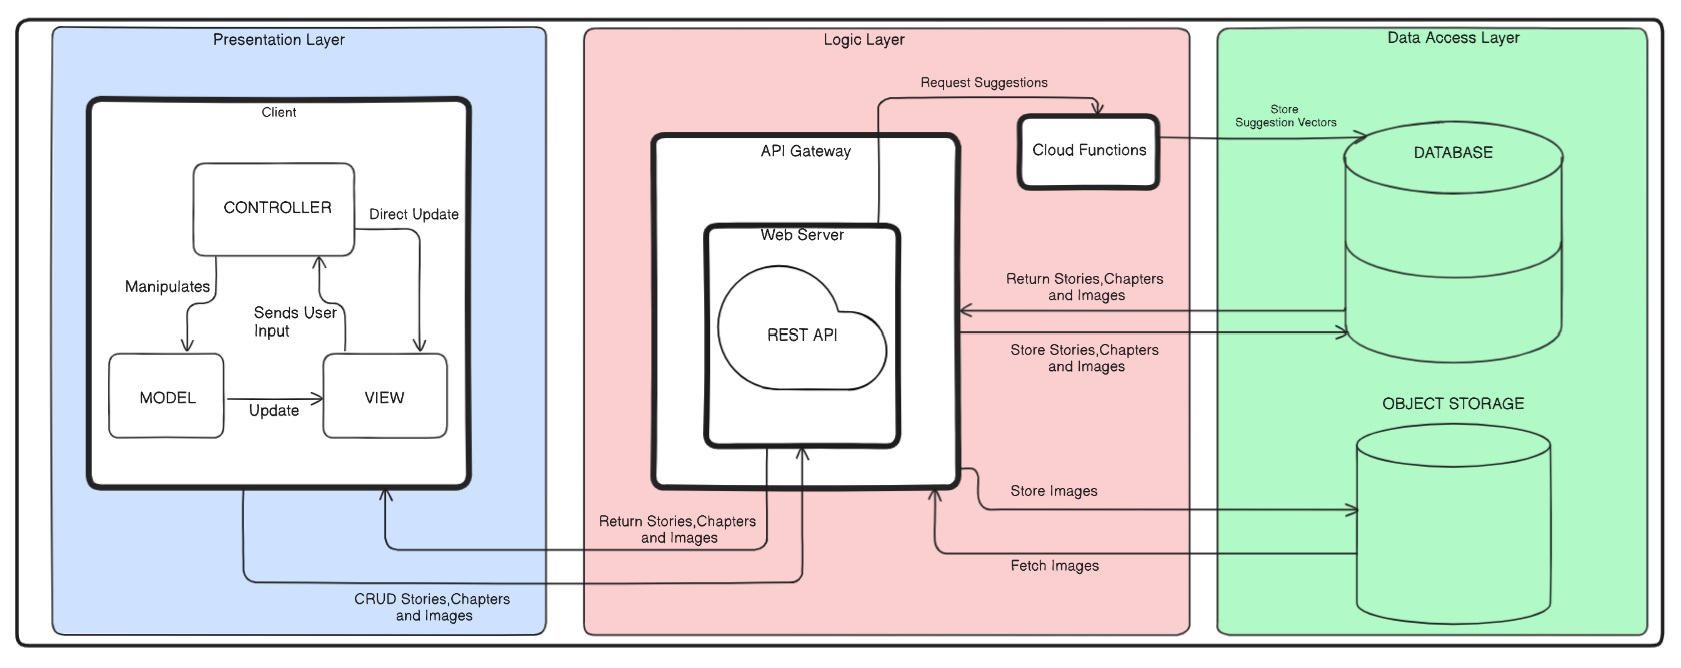
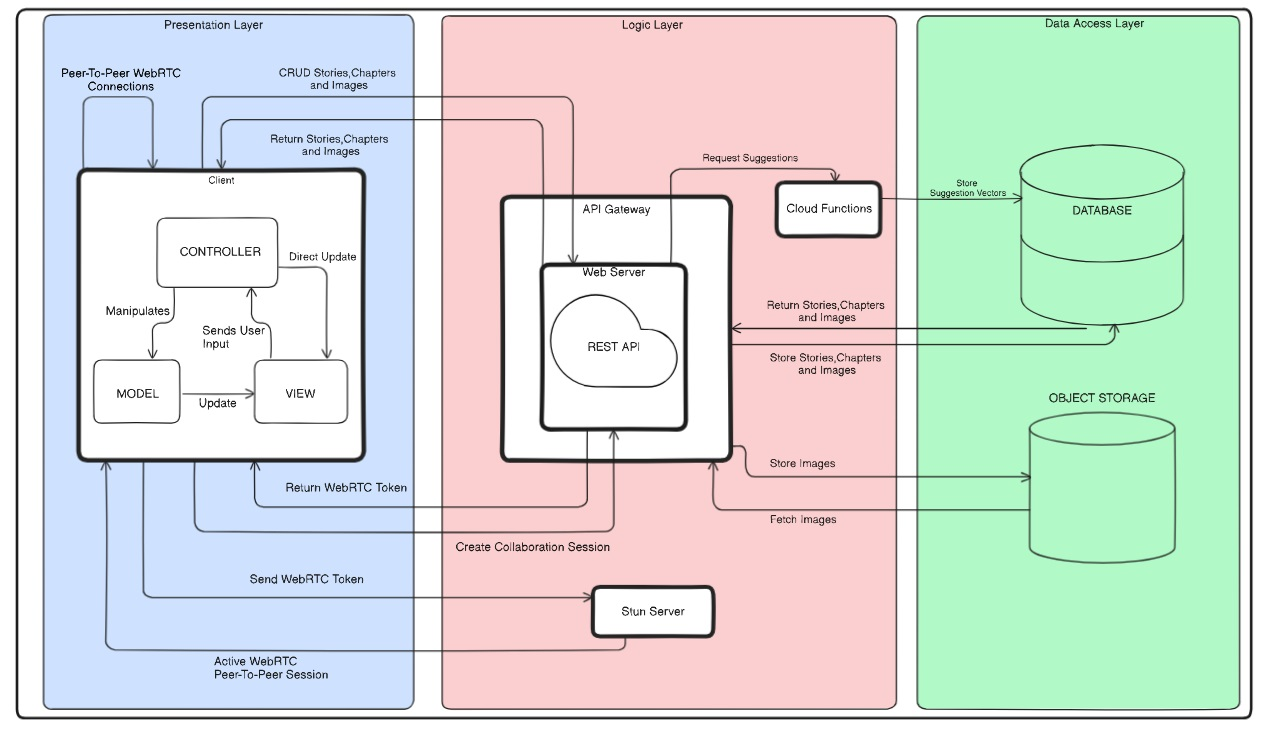
feat(docs): Updated the docs for the demo

diff --git a/apps/writeme-docs/docs/software-requirements-specification.md b/apps/writeme-docs/docs/software-requirements-specification.md
@@ -14,8 +14,6 @@ The rise of digital content consumption has created a demand for platforms that 
 
 ## Functional Requirements
 
-<strong> All points in bold are requirements that have been implemented already and points that are not bolded are what we plan to do next</strong>
-
 ### Authentication
 
 <ol className="srs-bullets">
@@ -42,12 +40,6 @@ The rise of digital content consumption has created a demand for platforms that 
       <li>Using their email and password
         <ol className="srs-bullets">
           <li><strong>The user credentials must be validated</strong></li>
-          <li>Must allow user to recover their password using their email or username
-            <ol className="srs-bullets">
-              <li><strong>The account must be verified (i.e. ensure it exists)</strong></li>
-              <li><strong>If the account is found, the system must allow the user to send a recovery email to the email address associated with the account</strong></li>
-            </ol>
-          </li>
         </ol>
       </li>
       <li>Using existing platforms
@@ -56,14 +48,14 @@ The rise of digital content consumption has created a demand for platforms that 
           <li><strong>Using Github</strong></li>
         </ol>
       </li>
-      <li>The user must be able to select “forgot password’
+    </ol>
+  </li>
+  <li>The user must be able to select “forgot password’
         <ol className="srs-bullets">
           <li><strong>The system must identify their account using their email address or username.</strong></li>
           <li><strong>If an account is found, a button appears that lets the user send a password reset email to the email address linked to their account</strong></li>
         </ol>
       </li>
-    </ol>
-  </li>
 </ol>
 
 ### Authorization
@@ -72,10 +64,12 @@ The rise of digital content consumption has created a demand for platforms that 
   <li>The system must provide functionality that is specific to users that are singed up:
     <ol className="srs-bullets">
       <li><strong>Access to account management</strong></li>
-      <li><strong>Access to reading other stories</strong></li>
-      <li><strong>Access to writing stories</strong></li>
+      <li><strong>Access to the explore page(To read other stories)</strong></li>
+      <li><strong>Access to the editor(To write stories)</strong></li>
       <li><strong>Access to the recommendation system. The access is implicit (i.e. the user doesn't directly interact with the system)</strong></li>
       <li><strong>Access to the social interaction system</strong></li>
+      <li><strong>Access to Writeathons</strong></li>
+      <li><strong>Access to real time collaboration as a guest or host</strong></li>
     </ol>
   </li>
 </ol>
@@ -88,14 +82,13 @@ The rise of digital content consumption has created a demand for platforms that 
       <li><strong>Users must be able to publish their story</strong></li>
       <li><strong>Users must be able to save their story to a draft</strong></li>
       <li><strong>Users must be able to edit their stories</strong></li>
-      <li><strong>Genre selection</strong></li>
+      <li><strong>Users must be able to give their stories Genre Tags</strong></li>
     </ol>
   </li>
   <li>Metadata:
     <ol className='srs-bullets'>
       <li><strong>Users must be able to add a title to their story</strong></li>
-      <li><strong>Editor for users to write the main content of their story</strong></li>
-      <li><strong>Able to select a cover image</strong></li>
+      <li><strong>Users must be able to select a cover image</strong></li>
     </ol>
   </li>
 </ol>
@@ -106,21 +99,22 @@ The rise of digital content consumption has created a demand for platforms that 
   <li>Users must be able to view other stories:
     <ol className='srs-bullets'>
       <li><strong>Stories can be displayed as thumbnails with the cover image, title and author</strong></li>
-      <li>Stories can be displayed as lists with more detailed information such as a short description, genre or publication date</li>
+      <li><strong>Stories can be displayed as lists with more detailed information such as a short description, genre or publication date</strong></li>
     </ol>
   </li>
   <li>Story filters
     <ol className='srs-bullets'>
-      <li>Allow users to filter stories by genre</li>
-      <li>Allow users to filter stories by popularity</li>
-      <li>Allow users to filter stories by most recently published</li>
+      <li><strong>Allow users to filter stories by date published</strong></li>
+      <li><strong>Allow users to filter stories by genre</strong></li>
+      <li><strong>Allow users to filter stories by most recently published</strong></li>
+      <li><strong>Allow users to see filtered stories in ascending or descending order</strong></li>
     </ol>
   </li>
   <li>Search functionality
     <ol className='srs-bullets'>
       <li><strong>Allow users to search stories by title</strong></li>
-      <li>Allow users to search stories by author</li>
-      <li>>Allow users to search stories with keywords</li>
+      <li><strong>Allow users to search stories by author</strong></li>
+      <li><strong>Allow users to search stories with keywords</strong></li>
     </ol>
   </li>
 </ol>
@@ -134,6 +128,7 @@ The rise of digital content consumption has created a demand for platforms that 
         <ol className='srs-bullets'>
           <li><strong>Users can comment on Entire Stories</strong></li>
           <li><strong>Users can comment on Chapters</strong></li>
+          <li><strong>Users can reply to other users comments</strong></li>
         </ol>
       </li>
       <li>Users can like differnet sections
@@ -157,7 +152,7 @@ The rise of digital content consumption has created a demand for platforms that 
         <li><strong>Users can share on Facebook</strong></li>
      </ol>
     </li>
-    <li><strong>Users can export stories to PDF</strong></li>
+    <li>Users can export stories to PDF</li>
 </ol>
 
 ### Account Management
@@ -177,7 +172,7 @@ The rise of digital content consumption has created a demand for platforms that 
             <li><strong>Users should be able to update name</strong></li>
           </ol>
         </li>
-        <li><strong>Users should be able to delete their account</strong></li>
+        <li>Users should be able to delete their account</li>
       </ol>
     </li>
 
@@ -188,8 +183,8 @@ The rise of digital content consumption has created a demand for platforms that 
 <ol className="srs-bullets">
   <li>Users can edit content while offline:
       <ol className='srs-bullets'>
-        <li>Users can edit entire stories while offline</li>
-        <li>Users can edit specific chapters while offline</li>
+        <li><strong>Users can edit entire stories while offline</strong></li>
+        <li><strong>Users can edit specific chapters while offline</strong></li>
      </ol>
   </li>
   <li>Users can export content to a PDF:
@@ -258,8 +253,8 @@ The rise of digital content consumption has created a demand for platforms that 
       <li><strong>Users can use the assistant to generate story progression ideas</strong></li>
     </ol>
   </li>
-  <li><strong>Users can use the AI assistant for parts of speech detection</strong></li>
-  <li><strong>Users can use the AI assistant for tone detection</strong></li>
+  <li>Users can use the AI assistant for parts of speech detection</li>
+  <li>Users can use the AI assistant for tone detection</li>
 </ol>
 
 ### Notepad
@@ -274,6 +269,37 @@ The rise of digital content consumption has created a demand for platforms that 
         <li><strong>Users can load previously saved notepad content from local storage</strong></li>
      </ol>
   </li>  
+</ol>
+
+### Real Time Collaboration
+
+<ol className="srs-bullets">
+
+  <li>Users can Collaborate with other WriteMe users in Real-Time
+      <ol className='srs-bullets'>
+        <li><strong>Users can host a collaboration session</strong></li>
+        <li><strong>Users can join another users collaboration session</strong></li>
+        <li><strong>Users can make collaboration sessions Read-Only</strong></li>
+        <li><strong>Users can make collaboration sessions Read and Write sessions to give guests full access to the story</strong></li>
+        <li><strong>Users can work on the same story at the same time with their collaboration guest</strong></li>
+     </ol>
+  </li>
+
+  <li>Users can use the Whiteboard while collaborating with others
+      <ol className='srs-bullets'>
+        <li><strong>Users can collaborate on the same whiteboard in Real-Time</strong></li>
+        <li><strong>Users can draw pictures or diagrams to brainstorm ideas</strong></li>
+        <li><strong>Users can type and add text to the whiteboard</strong></li>
+     </ol>
+  </li>
+
+  <li>Users can use the conferencing feature while collaborating with others
+      <ol className='srs-bullets'>
+        <li><strong>Users can see real time video of collaborators</strong></li>
+        <li><strong>Users can hear real time audio of collaborators</strong></li>
+     </ol>
+  </li> 
+
 </ol>
 
 ## Architectural Requirements
@@ -483,7 +509,7 @@ The system requires the use of AWS, therefore implementing budget constraints wi
 
 By leveraging AWS's robust infrastructure and services, the app can achieve high reliability, ensuring consistent availability and performance even in the face of potential failures and disruptions. Amazon S3 will be used to automatically back up user data and application data, ensuring that critical information is protected and can be recovered in case of data loss.
 
-## 6 Architectural Diagram
+## Architectural Diagram
 
 ![Architectural Diagaram](./images/ArchDiagram.jpg)
 
